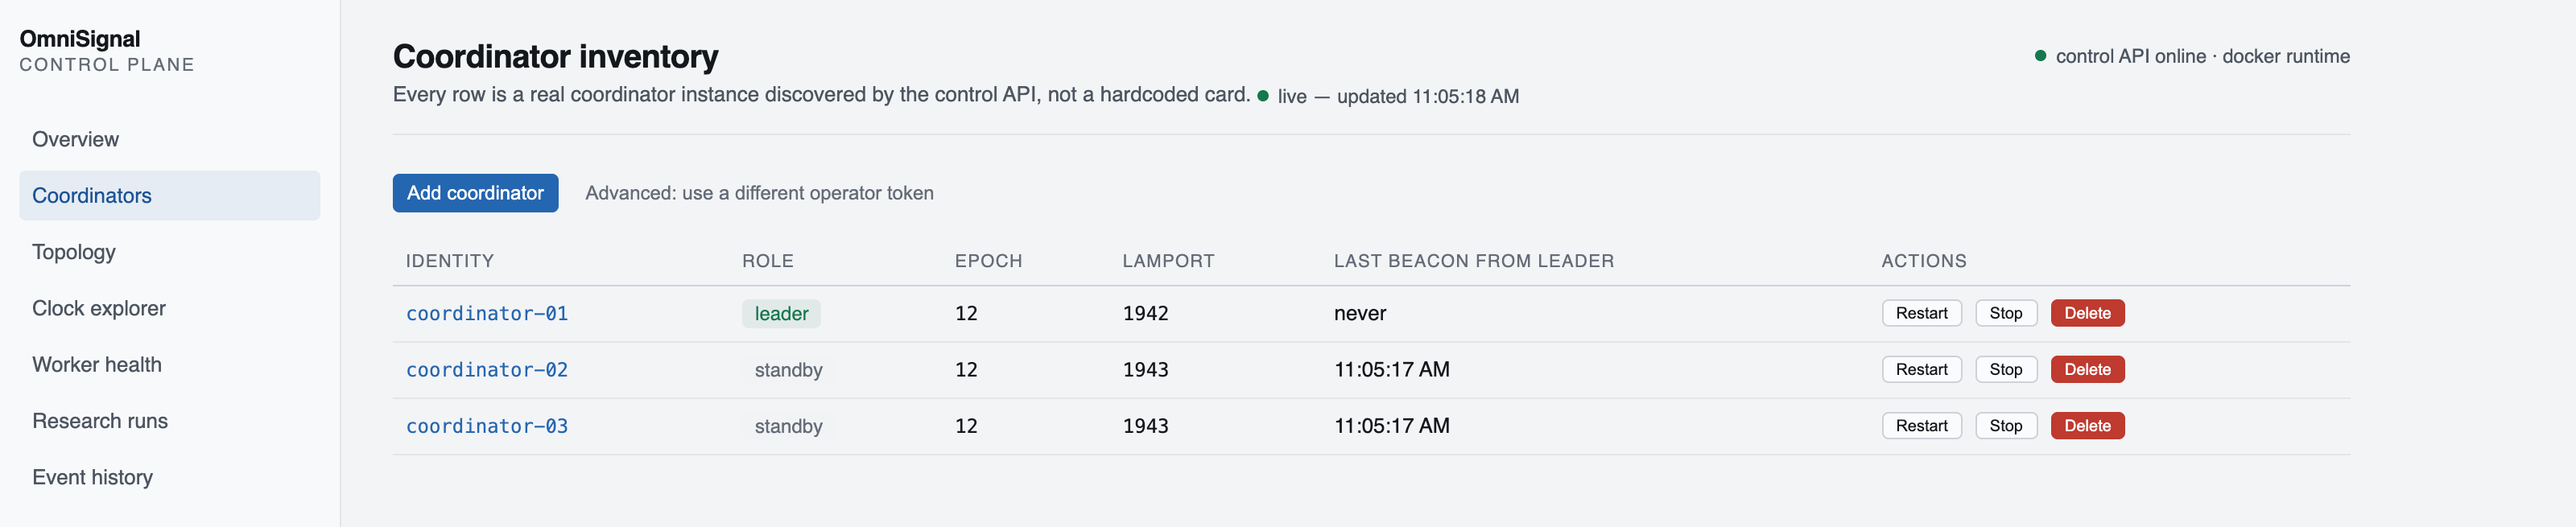
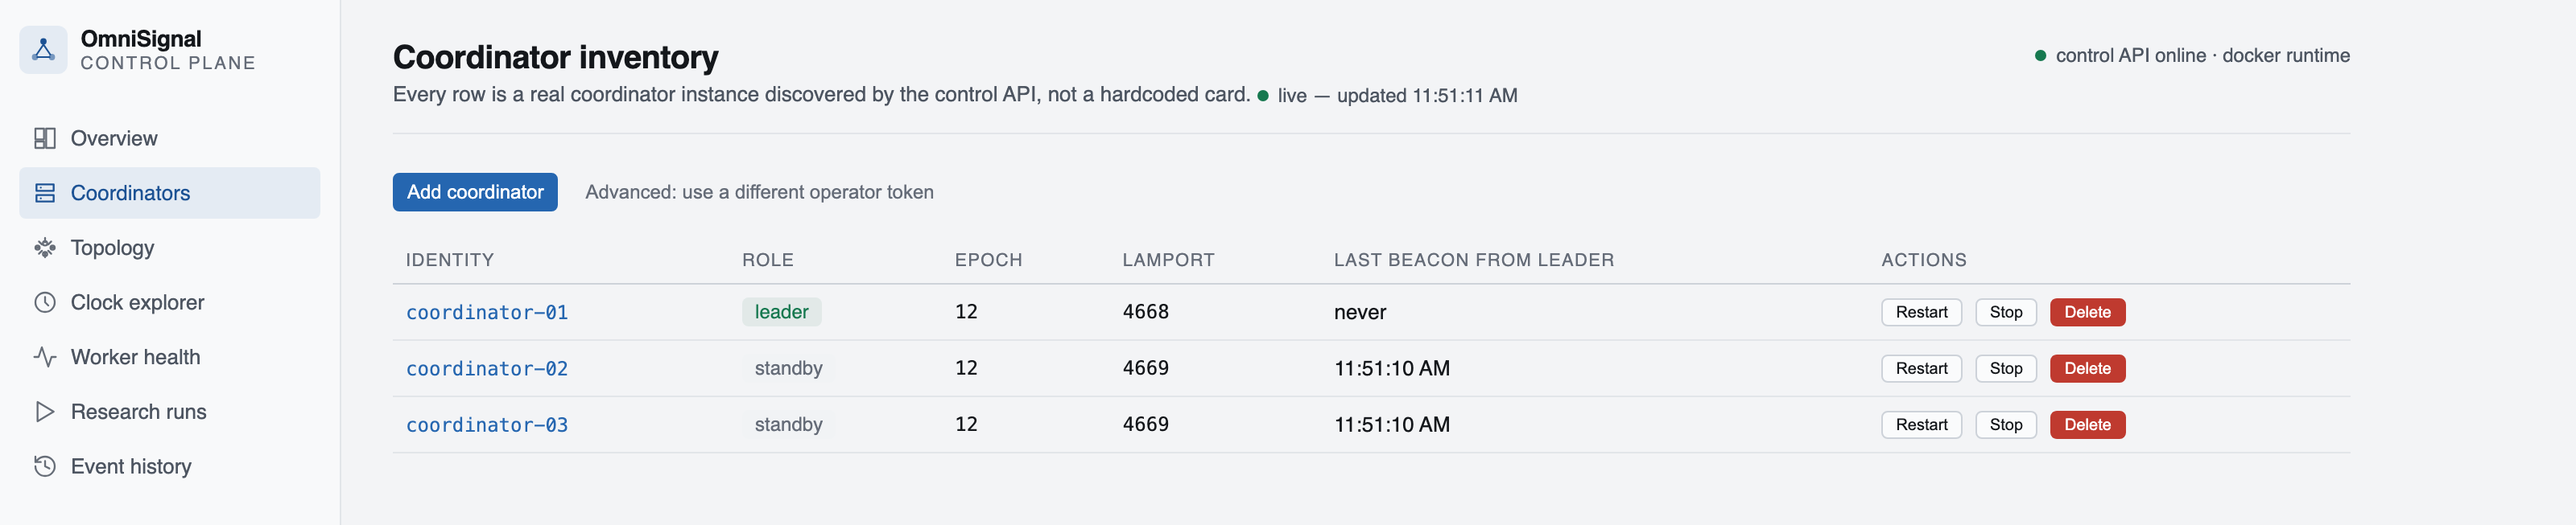
Rename project to OmniSignal, polish the control-plane UI, refresh screenshots
- Renamed throughout: this is OmniSignal, a DS mini project, not FA/OrchestraNet
- Added nav icons and a logo mark to the control plane for a cleaner,
  more finished operator-console feel
- Added subtle depth (shadows, crisp node outlines) to the topology diagram
- Removed emoji checkmarks from the syllabus-coverage tables
- Replaced every screenshot with a fresh capture of the updated UI

diff --git a/control-plane/src/components/Nav.tsx b/control-plane/src/components/Nav.tsx
@@ -3,14 +3,32 @@
 import Link from "next/link";
 import { usePathname } from "next/navigation";
 
+function Icon({ path }: { path: string }) {
+  return (
+    <svg className="rail-icon" width="16" height="16" viewBox="0 0 24 24" fill="none" stroke="currentColor" strokeWidth="1.75" strokeLinecap="round" strokeLinejoin="round">
+      <path d={path} />
+    </svg>
+  );
+}
+
+const ICONS = {
+  overview: "M3 13h8V3H3v10Zm10 8h8V3h-8v18ZM3 21h8v-6H3v6Z",
+  coordinators: "M4 4h16v6H4V4Zm0 10h16v6H4v-6ZM8 7h.01M8 17h.01",
+  topology: "M12 3v4m0 10v4M3 12h4m10 0h4M6.3 6.3l2.8 2.8m5.8 5.8 2.8 2.8M17.7 6.3l-2.8 2.8m-5.8 5.8-2.8 2.8M12 10a2 2 0 1 0 0-4 2 2 0 0 0 0 4Zm0 10a2 2 0 1 0 0-4 2 2 0 0 0 0 4Zm-7-6a2 2 0 1 0 0-4 2 2 0 0 0 0 4Zm14 0a2 2 0 1 0 0-4 2 2 0 0 0 0 4Z",
+  clocks: "M12 21a9 9 0 1 0 0-18 9 9 0 0 0 0 18Zm0-14v5l3 3",
+  workers: "M22 12h-4l-3 9-6-18-3 9H2",
+  runs: "M5 3v18l15-9L5 3Z",
+  events: "M3 12a9 9 0 1 0 9-9 9.7 9.7 0 0 0-6.74 2.74L3 8M3 3v5h5m4-1v5l4 2",
+};
+
 const links = [
-  { href: "/", label: "Overview" },
-  { href: "/coordinators", label: "Coordinators" },
-  { href: "/topology", label: "Topology" },
-  { href: "/clocks", label: "Clock explorer" },
-  { href: "/workers", label: "Worker health" },
-  { href: "/runs", label: "Research runs" },
-  { href: "/events", label: "Event history" },
+  { href: "/", label: "Overview", icon: ICONS.overview },
+  { href: "/coordinators", label: "Coordinators", icon: ICONS.coordinators },
+  { href: "/topology", label: "Topology", icon: ICONS.topology },
+  { href: "/clocks", label: "Clock explorer", icon: ICONS.clocks },
+  { href: "/workers", label: "Worker health", icon: ICONS.workers },
+  { href: "/runs", label: "Research runs", icon: ICONS.runs },
+  { href: "/events", label: "Event history", icon: ICONS.events },
 ];
 
 export function Nav() {
@@ -18,13 +36,26 @@ export function Nav() {
 
   return (
     <nav className="rail">
-      <div className="rail-brand">OmniSignal</div>
-      <div className="rail-brand-sub">Control plane</div>
+      <div className="rail-brand-row">
+        <span className="rail-mark" aria-hidden="true">
+          <svg width="18" height="18" viewBox="0 0 24 24" fill="none">
+            <circle cx="12" cy="5" r="2.6" fill="currentColor" />
+            <circle cx="5" cy="18" r="2.6" fill="currentColor" opacity="0.55" />
+            <circle cx="19" cy="18" r="2.6" fill="currentColor" opacity="0.55" />
+            <path d="M12 7.6 6.3 16M12 7.6 17.7 16M6.8 18h10.4" stroke="currentColor" strokeWidth="1.4" strokeLinecap="round" />
+          </svg>
+        </span>
+        <div>
+          <div className="rail-brand">OmniSignal</div>
+          <div className="rail-brand-sub">Control plane</div>
+        </div>
+      </div>
       {links.map((link) => {
         const isActive = link.href === "/" ? pathname === "/" : pathname?.startsWith(link.href);
         return (
           <Link key={link.href} href={link.href} className={`rail-link${isActive ? " active" : ""}`}>
-            {link.label}
+            <Icon path={link.icon} />
+            <span>{link.label}</span>
           </Link>
         );
       })}

diff --git a/control-plane/src/app/topology/page.tsx b/control-plane/src/app/topology/page.tsx
@@ -115,6 +115,7 @@ export default function TopologyPage() {
                   fill="var(--p-raised)"
                   stroke={colorForNode(controlApiNode)}
                   strokeWidth={1.5}
+                  style={{ filter: "drop-shadow(0 1px 3px rgba(15, 20, 30, 0.12))" }}
                 />
                 <text
                   x={positions.get(controlApiNode.id)!.x}
@@ -131,7 +132,15 @@ export default function TopologyPage() {
               const position = positions.get(node.id)!;
               return (
                 <g key={node.id}>
-                  <circle cx={position.x} cy={position.y} r={22} fill={colorForNode(node)} />
+                  <circle
+                    cx={position.x}
+                    cy={position.y}
+                    r={22}
+                    fill={colorForNode(node)}
+                    stroke="var(--p-panel)"
+                    strokeWidth={3}
+                    style={{ filter: "drop-shadow(0 2px 4px rgba(15, 20, 30, 0.18))" }}
+                  />
                   <text x={position.x} y={position.y + 38} textAnchor="middle" fontSize={11} fill="var(--ink-muted)">
                     {node.id}
                   </text>
@@ -145,7 +154,17 @@ export default function TopologyPage() {
               const position = positions.get(node.id)!;
               return (
                 <g key={node.id}>
-                  <rect x={position.x - 16} y={position.y - 16} width={32} height={32} rx={6} fill={colorForNode(node)} />
+                  <rect
+                    x={position.x - 16}
+                    y={position.y - 16}
+                    width={32}
+                    height={32}
+                    rx={6}
+                    fill={colorForNode(node)}
+                    stroke="var(--p-panel)"
+                    strokeWidth={2.5}
+                    style={{ filter: "drop-shadow(0 2px 4px rgba(15, 20, 30, 0.18))" }}
+                  />
                   <text x={position.x} y={position.y + 32} textAnchor="middle" fontSize={10} fill="var(--ink-muted)">
                     {node.group}
                   </text>

diff --git a/control-plane/src/styles/system.css b/control-plane/src/styles/system.css
@@ -34,12 +34,31 @@ a:hover {
   flex-shrink: 0;
 }
 
+.rail-brand-row {
+  display: flex;
+  align-items: center;
+  gap: var(--d-2);
+  margin-bottom: var(--d-5);
+}
+
+.rail-mark {
+  display: flex;
+  align-items: center;
+  justify-content: center;
+  width: 30px;
+  height: 30px;
+  flex-shrink: 0;
+  border-radius: var(--r-lg);
+  background: var(--accent-wash);
+  color: var(--accent-strong);
+}
+
 .rail-brand {
   font-size: var(--t-body-lg);
   font-weight: 600;
   letter-spacing: var(--tracking-display);
   color: var(--ink);
-  margin-bottom: 2px;
+  line-height: 1.2;
 }
 
 .rail-brand-sub {
@@ -47,16 +66,24 @@ a:hover {
   letter-spacing: var(--tracking-eyebrow);
   text-transform: uppercase;
   color: var(--ink-faint);
-  margin-bottom: var(--d-5);
+  line-height: 1.2;
 }
 
 .rail-link {
-  display: block;
+  display: flex;
+  align-items: center;
+  gap: var(--d-2);
   padding: var(--d-2) var(--d-2);
   border-radius: var(--r-md);
   color: var(--ink-muted);
   font-size: var(--t-body);
-  margin-bottom: var(--d-1);
+  margin-bottom: 2px;
+  transition: background var(--t-fast) var(--ease), color var(--t-fast) var(--ease);
+}
+
+.rail-icon {
+  flex-shrink: 0;
+  opacity: 0.85;
 }
 
 .rail-link:hover {
@@ -67,6 +94,11 @@ a:hover {
 .rail-link.active {
   background: var(--accent-wash);
   color: var(--accent-strong);
+  font-weight: 500;
+}
+
+.rail-link.active .rail-icon {
+  opacity: 1;
 }
 
 .main {
@@ -126,7 +158,13 @@ a:hover {
   border-radius: var(--r-lg);
   padding: var(--d-4);
   margin-bottom: var(--d-4);
-  box-shadow: 0 1px 2px rgb(15 20 30 / 0.04);
+  box-shadow: 0 1px 2px rgb(15 20 30 / 0.04), 0 1px 10px -4px rgb(15 20 30 / 0.06);
+  transition: box-shadow var(--t-med) var(--ease), border-color var(--t-med) var(--ease);
+}
+
+.card:hover {
+  border-color: var(--rule-strong);
+  box-shadow: 0 2px 4px rgb(15 20 30 / 0.05), 0 4px 16px -4px rgb(15 20 30 / 0.09);
 }
 
 .card-title {

diff --git a/README.md b/README.md
@@ -1,4 +1,11 @@
-# OrchestraNet — Distributed Systems Mini Project
+# OmniSignal — Distributed Systems Mini Project
+
+![Python](https://img.shields.io/badge/Python-3.12-3776AB?logo=python&logoColor=white)
+![FastAPI](https://img.shields.io/badge/FastAPI-009688?logo=fastapi&logoColor=white)
+![gRPC](https://img.shields.io/badge/gRPC-4285F4?logo=googlecloud&logoColor=white)
+![Next.js](https://img.shields.io/badge/Next.js-16-000000?logo=nextdotjs&logoColor=white)
+![PostgreSQL](https://img.shields.io/badge/PostgreSQL-4169E1?logo=postgresql&logoColor=white)
+![Docker](https://img.shields.io/badge/Docker-Compose-2496ED?logo=docker&logoColor=white)
 
 A fault-tolerant distributed task-orchestration system: three coordinator
 nodes elect a single leader over an atomic database lease, three groups of
@@ -36,13 +43,13 @@ Course: **Distributed Systems** (BCE27PC01) — Mini Project
 
 ## What this is
 
-The assignment's framing is a **Command Center** coordinating multiple
+This project is presented through a **Command Center** coordinating multiple
 **Rescue Teams** across a search-and-rescue operation: teams must be
 registered, assigned work, monitored for failure, and have their unfinished
 work recovered when they go silent. That framing maps directly onto what is
 actually built here:
 
-| Assignment framing | What it is in this codebase |
+| Presentation framing | What it is in this codebase |
 |---|---|
 | Command Center | A **coordinator** — one of three, exactly one of which holds leadership at a time |
 | Rescue Team | A **worker** — one of three groups (`market`, `fundamentals`, `news_macro`) |
@@ -320,37 +327,37 @@ actually **implemented and runnable** from what is only **discussed**.
 
 | Topic | Status |
 |---|---|
-| Distributed architecture, design issues, middleware/service boundaries | ✅ Implemented — coordinator / worker / control API / dashboard as separate services |
-| Independent distributed processes | ✅ Implemented — every coordinator/worker is its own container, own OS process |
-| Containerization | ✅ Implemented (Docker Compose, the verified path) · 🟡 Kubernetes manifests written, not applied to a live cluster |
+| Distributed architecture, design issues, middleware/service boundaries | Implemented — coordinator / worker / control API / dashboard as separate services |
+| Independent distributed processes | Implemented — every coordinator/worker is its own container, own OS process |
+| Containerization | Implemented via Docker Compose, the verified path; Kubernetes manifests are written but not applied to a live cluster |
 
 ### Unit II — Communication
 
 | Topic | Status |
 |---|---|
-| Remote procedure calls | ✅ Implemented — gRPC unary RPC, `WorkerCapability.ExecuteCapability` |
-| Request/response communication | ✅ Implemented — HTTP + typed Pydantic contracts throughout |
-| Fault tolerance — worker failure | ✅ Implemented — HTTP heartbeats, threshold-based health demotion |
-| Fault tolerance — leader failure | ✅ Implemented — beacon-timeout-triggered takeover (see Unit III) |
+| Remote procedure calls | Implemented — gRPC unary RPC, `WorkerCapability.ExecuteCapability` |
+| Request/response communication | Implemented — HTTP + typed Pydantic contracts throughout |
+| Fault tolerance — worker failure | Implemented — HTTP heartbeats, threshold-based health demotion |
+| Fault tolerance — leader failure | Implemented — beacon-timeout-triggered takeover (see Unit III) |
 
 ### Unit III — Synchronization
 
 | Topic | Status |
 |---|---|
-| Lamport logical clocks | ✅ Implemented — `tick()`/`observe()`, exercised live on every protocol event |
-| Election algorithms | 🟡 Implemented, but as an **atomic database-lease election**, not the textbook Bully/Ring message exchange |
-| Epoch fencing against stale leaders | ✅ Implemented |
-| Vector clocks | ❌ Not implemented |
-| Distributed mutual exclusion | ❌ Not implemented |
+| Lamport logical clocks | Implemented — `tick()`/`observe()`, exercised live on every protocol event |
+| Election algorithms | Implemented, but as an atomic database-lease election, not the textbook Bully/Ring message exchange |
+| Epoch fencing against stale leaders | Implemented |
+| Vector clocks | Not implemented |
+| Distributed mutual exclusion | Not implemented |
 
 ### Unit IV — Emerging Distributed Paradigms
 
 | Topic | Status |
 |---|---|
-| Distributed web-based system | ✅ Implemented — the Next.js control plane over an independent backend |
-| Docker Compose | ✅ Implemented — the project's primary, verified deployment path |
-| Kubernetes | 🟡 Manifests present (`distributed/deployment/kubernetes/`), validated offline, never applied to a live cluster |
-| Independent worker scaling | ✅ Implemented — `docker compose up -d --scale worker-market=N` |
+| Distributed web-based system | Implemented — the Next.js control plane over an independent backend |
+| Docker Compose | Implemented — the project's primary, verified deployment path |
+| Kubernetes | Manifests present (`distributed/deployment/kubernetes/`), validated offline, never applied to a live cluster |
+| Independent worker scaling | Implemented — `docker compose up -d --scale worker-market=N` |
 
 ## Known limitations
 
